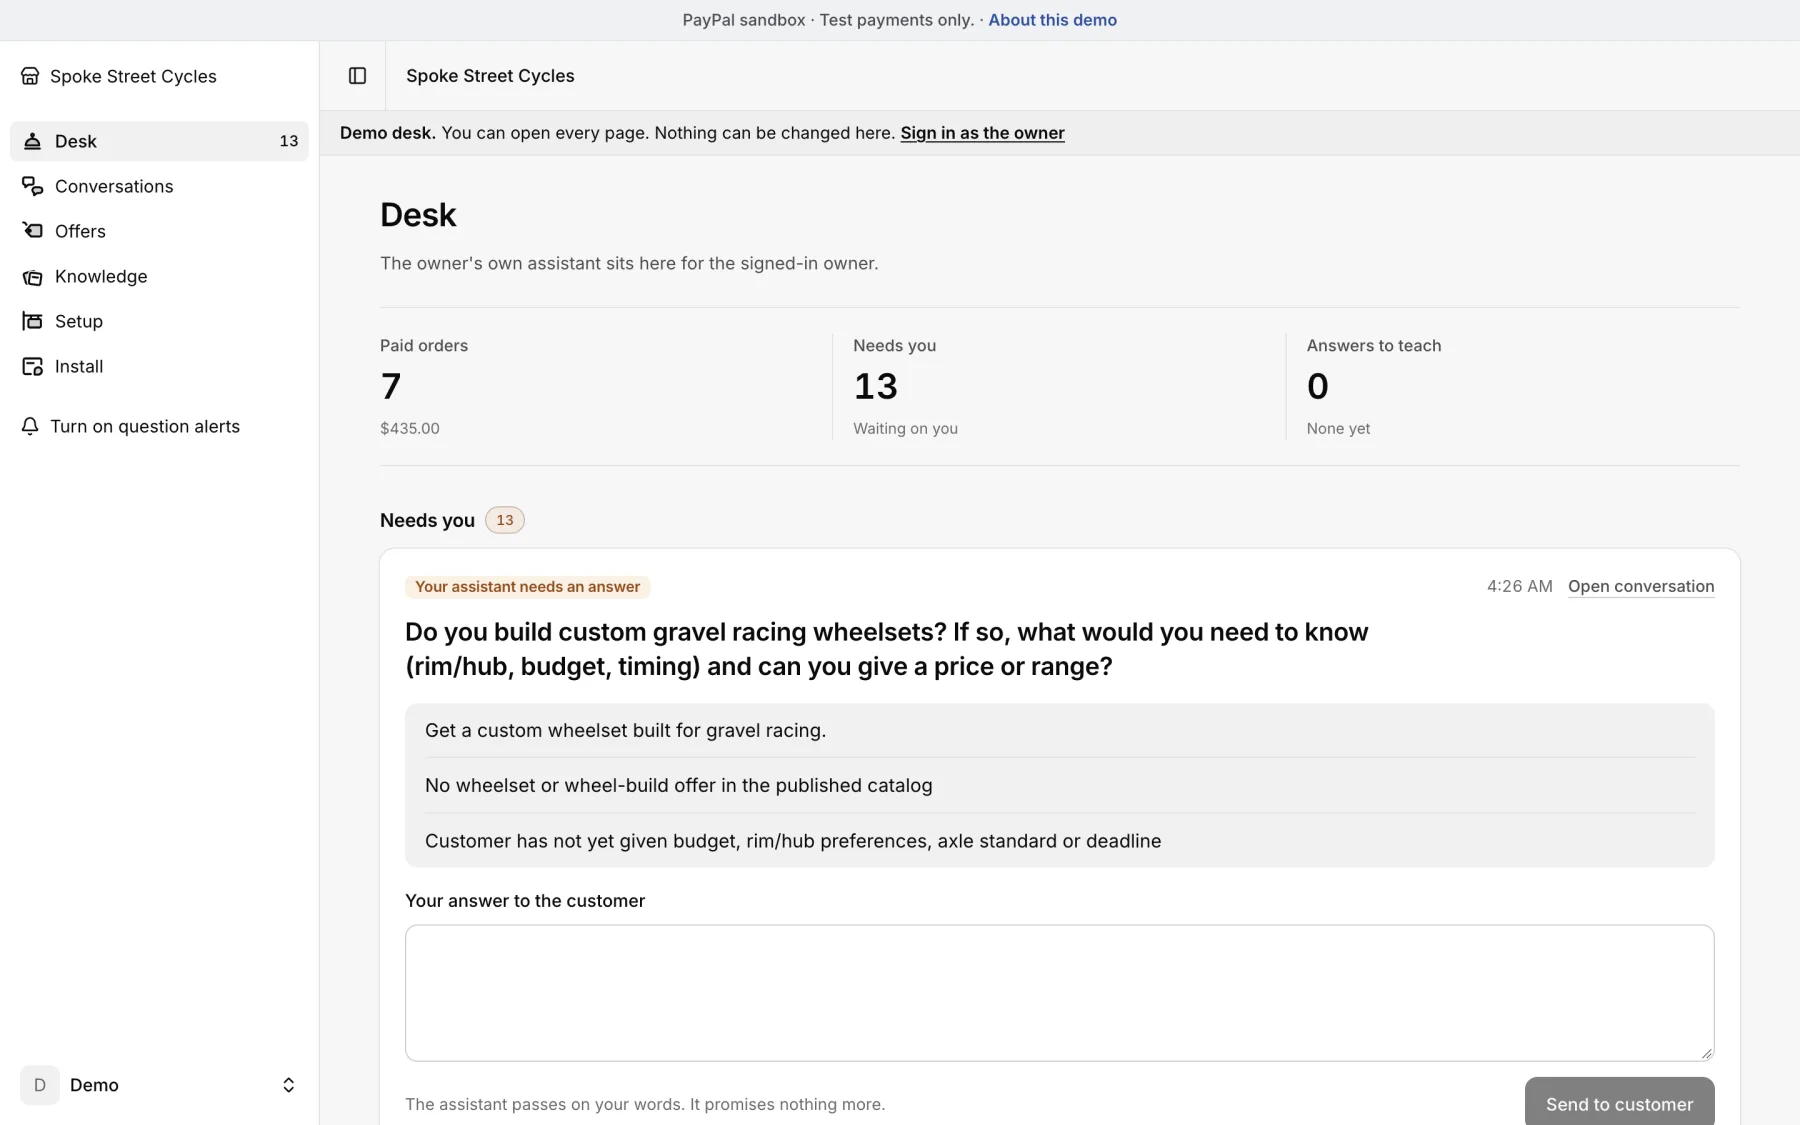
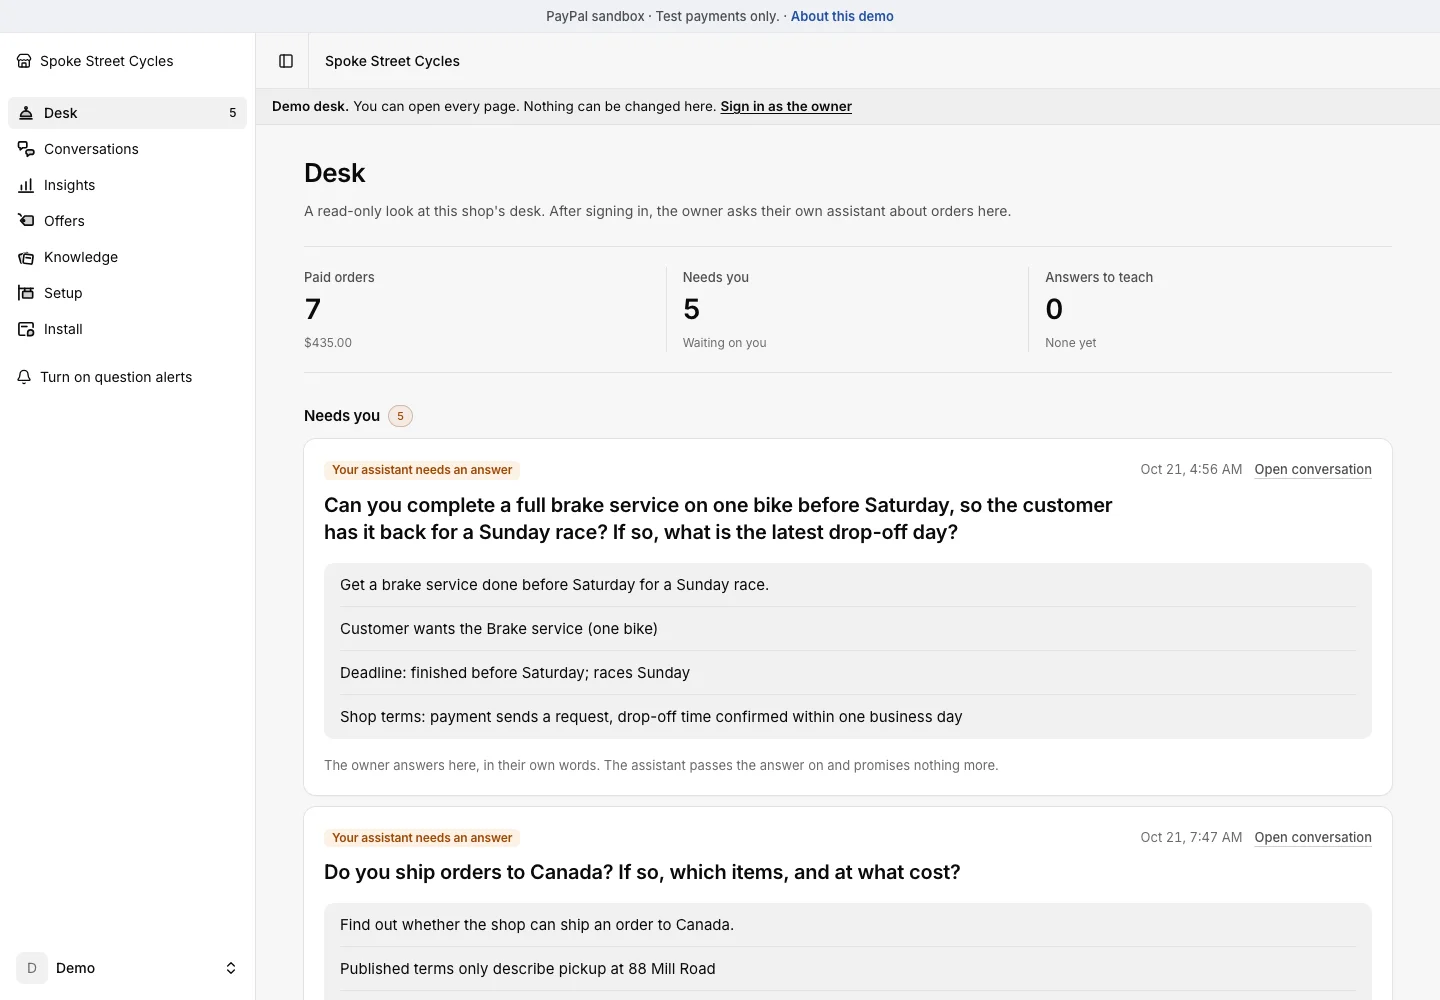
feat(home): Show Insights on the homepage and refresh the desk shot
The homepage never mentioned the Insights dashboard. A new section shows
it, built on AG Studio, with what the analyst can and cannot do and a
link in. The desk screenshot predated Insights and the current counts.

Files changed:
- about/home.tsx: Ask your own numbers section; desk alt text
- public/about/insights.webp (new), public/about/desk.webp: 1440x1000 captures, metadata stripped

diff --git a/src/components/about/home.tsx b/src/components/about/home.tsx
@@ -195,7 +195,7 @@ export async function SellerDeskHome() {
         <section aria-labelledby="desk" className="about-section mx-auto grid w-full max-w-[1180px] gap-10 px-4 sm:px-6 lg:grid-cols-[6fr_5fr] lg:items-center">
           <Image
             src="/about/desk.webp"
-            alt="The owner's desk: orders with the next step each one needs"
+            alt="The owner's desk: paid orders, and the customer questions waiting for the owner"
             width={1440}
             height={1000}
             sizes="(min-width: 1024px) 600px, 92vw"
@@ -211,6 +211,31 @@ export async function SellerDeskHome() {
               A WordPress plugin or one script tag puts the assistant on the website a seller already has.
             </p>
           </div>
+        </section>
+
+        <section aria-labelledby="insights" className="about-section mx-auto grid w-full max-w-[1180px] gap-10 px-4 sm:px-6 lg:grid-cols-[5fr_6fr] lg:items-center">
+          <div>
+            <h2 id="insights" className="about-h2 font-display">Ask your own numbers</h2>
+            <p className="text-ink-2 mt-4 max-w-[46ch] leading-relaxed">
+              Insights puts sales, conversations and stock on one dashboard, built on AG Studio. Tap a bar to see that
+              product&apos;s orders. Ask the analyst how the shop is doing and it reads the shop&apos;s own figures, or asks
+              Studio&apos;s agents to add a chart.
+            </p>
+            <p className="text-ink-2 mt-3 max-w-[46ch] leading-relaxed">
+              It reads and arranges. It has no tool that touches a price, an order or a payment, and it shows what it did.
+            </p>
+            <Link href="/owner/insights" className="text-ink mt-4 inline-flex min-h-11 items-center text-[15px] font-semibold underline underline-offset-4">
+              Open Insights
+            </Link>
+          </div>
+          <Image
+            src="/about/insights.webp"
+            alt="Insights: revenue through PayPal, revenue by product, and the orders still owing work"
+            width={1440}
+            height={1000}
+            sizes="(min-width: 1024px) 640px, 92vw"
+            className="about-shot"
+          />
         </section>
 
         <section aria-labelledby="refused" className="about-section mx-auto w-full max-w-[1180px] px-4 sm:px-6">
